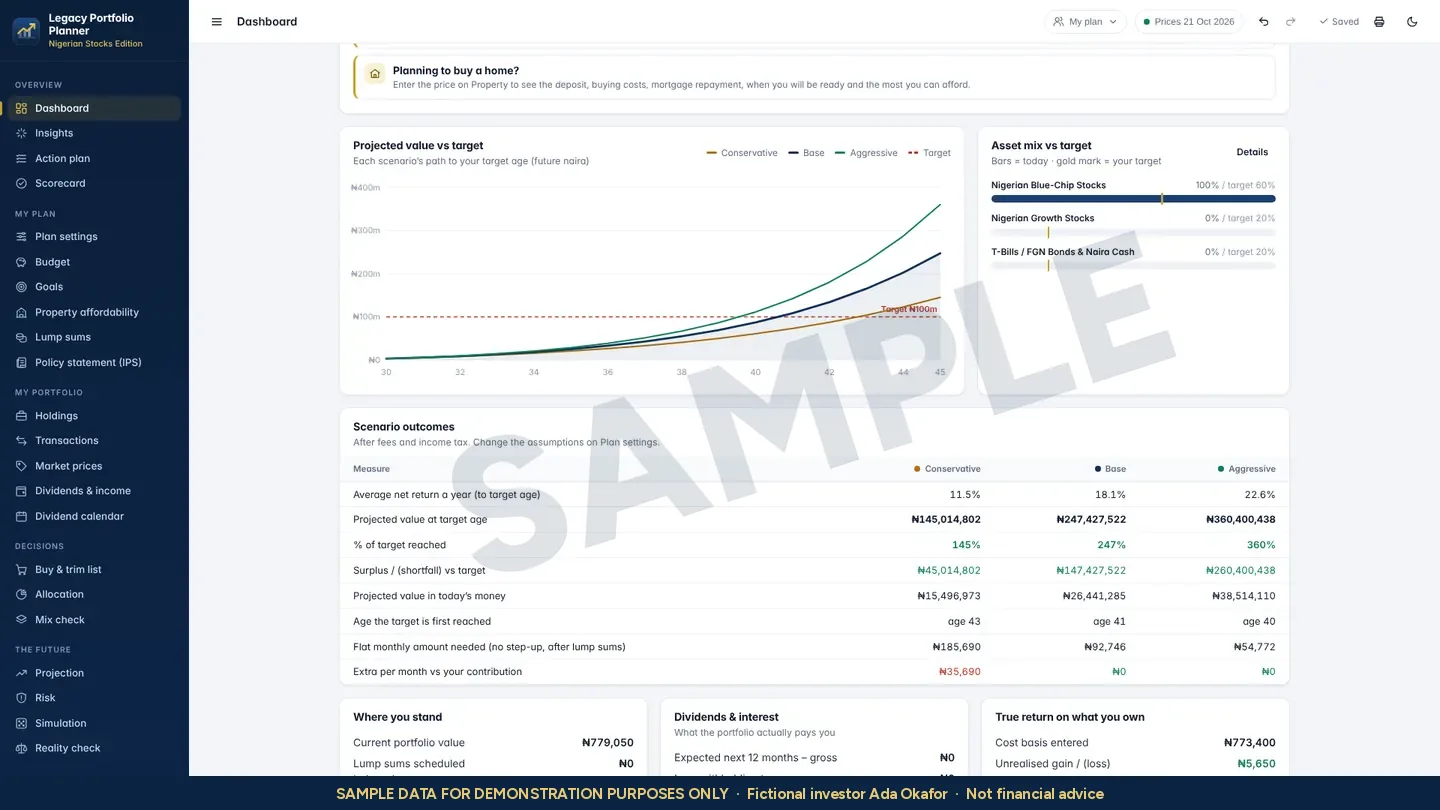
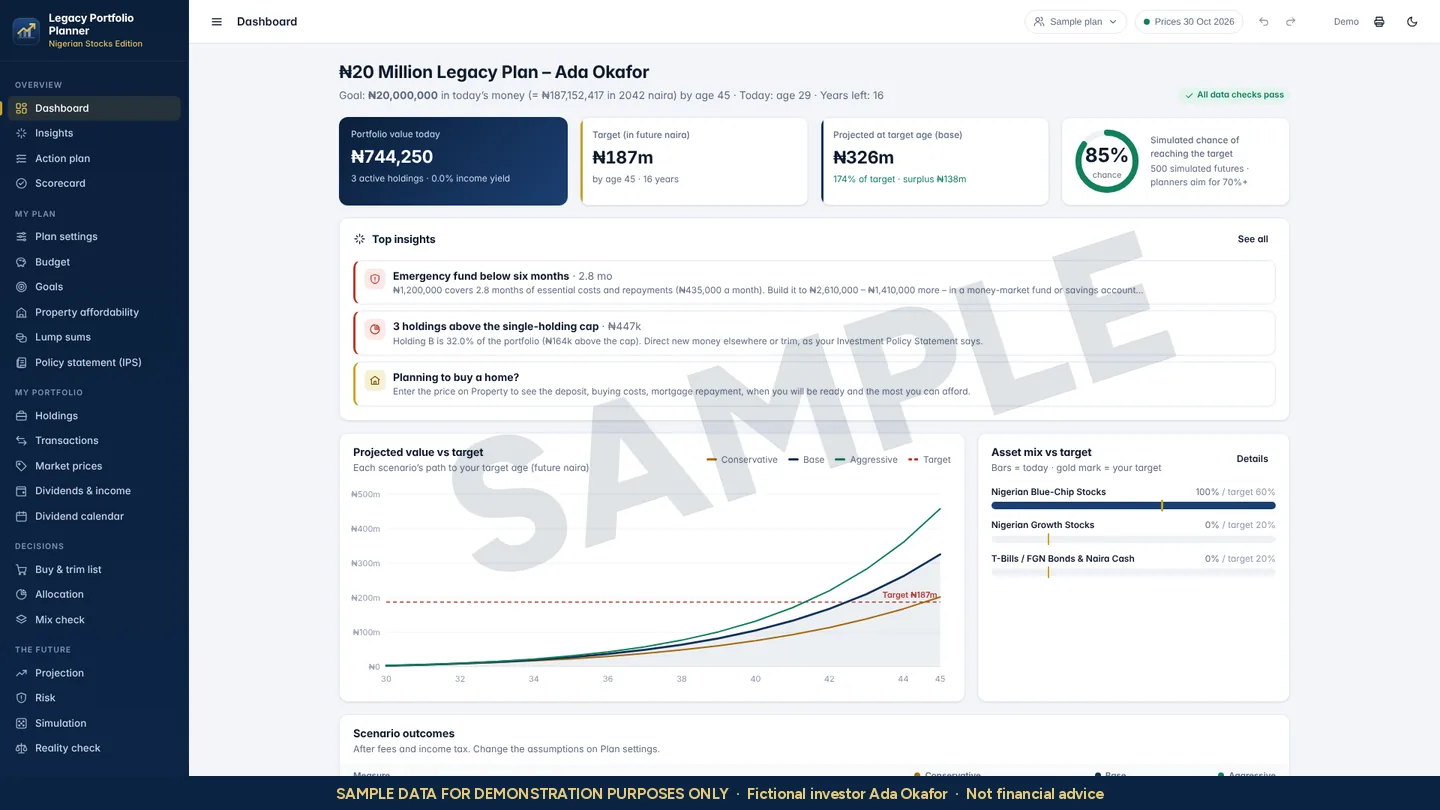
Align Ada with the Academy: retake all sample screenshots from her Academy plan
Claude-Session: https://claude.ai/code/session_017xo4nke39eoU6adX3svnwj

diff --git a/features.html b/features.html
@@ -155,9 +155,9 @@
     <h2 id="h-dashboard" style="font-size:clamp(26px,2.8vw,36px);color:var(--navy)">Planning Dashboard</h2>
     <div class="k"><h4>What it does</h4><p>Brings your current position, the three scenarios you defined, your asset mix against target, dividend income and true return together on one screen.</p></div>
     <div class="k"><h4>Why it matters</h4><p>A plan you cannot see at a glance is a plan you stop checking. One screen makes a monthly check-in quick.</p></div>
-    <div class="ada-note"><span class="avatar" aria-hidden="true">AO</span><p><b>Example with Ada.</b> Ada opens the Dashboard on the first Saturday of each month. In under five minutes she sees whether her contributions are on schedule and which part of her mix has moved away from her targets.</p></div>
+    <div class="ada-note"><span class="avatar" aria-hidden="true">AO</span><p><b>Example with Ada.</b> Once a month Ada does a five-minute check on the Dashboard. She sees her ₦20 million goal, where her portfolio stands, and that her top insight is an emergency fund below six months.</p></div>
   </div>
-  <div class="fd-media"><figure class="frame" style="margin:0"><div class="bar"><i></i><i></i><i></i><span>Legacy Portfolio Planner · Planning Dashboard</span></div><img src="assets/img/dashboard.webp" width="1440" height="810" alt="Planner dashboard with sample data: projected value against target for three assumption-based scenarios, asset mix against target, and a scenario table. Watermarked SAMPLE." loading="lazy" decoding="async"></figure><p class="caption mt-s">SAMPLE DATA FOR DEMONSTRATION PURPOSES ONLY. Fictional investor; anonymised holdings.</p></div>
+  <div class="fd-media"><figure class="frame" style="margin:0"><div class="bar"><i></i><i></i><i></i><span>Legacy Portfolio Planner · Planning Dashboard</span></div><img src="assets/img/dashboard.webp" width="1440" height="810" alt="Planner dashboard with sample data: the goal, portfolio value, projected value and simulated chance, top insights, projected value against target for three assumption-based scenarios, and asset mix against target. Watermarked SAMPLE." loading="lazy" decoding="async"></figure><p class="caption mt-s">SAMPLE DATA FOR DEMONSTRATION PURPOSES ONLY. Fictional investor; anonymised holdings.</p></div>
 </article>
 <article class="fd" id="goals" aria-labelledby="h-goals">
   <div class="fd-copy">
@@ -165,9 +165,9 @@
     <h2 id="h-goals" style="font-size:clamp(26px,2.8vw,36px);color:var(--navy)">Goal Tracking</h2>
     <div class="k"><h4>What it does</h4><p>Sets your legacy target in today's money or future naira, tests it against your budget, and adds other goals such as a home, a car or school fees. A property affordability tool and a lump-sum schedule sit alongside.</p></div>
     <div class="k"><h4>Why it matters</h4><p>Inflation changes what a naira target means over decades. Seeing both values keeps the goal honest.</p></div>
-    <div class="ada-note"><span class="avatar" aria-hidden="true">AO</span><p><b>Example with Ada.</b> Ada, 30, sets a ₦100 million family legacy target for age 45 and sees what that sum is worth in today's money. She adds a home deposit at 40 as a separate goal so it does not quietly eat into the long-term plan.</p></div>
+    <div class="ada-note"><span class="avatar" aria-hidden="true">AO</span><p><b>Example with Ada.</b> Ada, 29, first typed ₦100 million by 45, then saw it would buy only about what ₦10.7 million buys today. She sets ₦20 million in today's money instead, and adds a six-month emergency fund and a laptop for 2028 as goals paid from separate savings, so they do not touch the long-term plan.</p></div>
   </div>
-  <div class="fd-media"><figure class="frame" style="margin:0"><div class="bar"><i></i><i></i><i></i><span>Legacy Portfolio Planner · Goal Tracking</span></div><img src="assets/img/goals.webp" width="1440" height="810" alt="Goals screen with two sample goals, a home deposit and a master's degree, each inflated to its year with the monthly amount to set aside. Watermarked SAMPLE." loading="lazy" decoding="async"></figure><p class="caption mt-s">SAMPLE DATA FOR DEMONSTRATION PURPOSES ONLY. Fictional investor; anonymised holdings.</p></div>
+  <div class="fd-media"><figure class="frame" style="margin:0"><div class="bar"><i></i><i></i><i></i><span>Legacy Portfolio Planner · Goal Tracking</span></div><img src="assets/img/goals.webp" width="1440" height="810" alt="Goals screen with two sample goals, an emergency fund and a laptop, each inflated to its year with the monthly amount to set aside. Watermarked SAMPLE." loading="lazy" decoding="async"></figure><p class="caption mt-s">SAMPLE DATA FOR DEMONSTRATION PURPOSES ONLY. Fictional investor; anonymised holdings.</p></div>
 </article>
 <article class="fd" id="portfolio-tracking" aria-labelledby="h-portfolio-tracking">
   <div class="fd-copy">
@@ -175,7 +175,7 @@
     <h2 id="h-portfolio-tracking" style="font-size:clamp(26px,2.8vw,36px);color:var(--navy)">Portfolio Tracking</h2>
     <div class="k"><h4>What it does</h4><p>Records every holding, buy and sale. NGX share and ETF prices refresh in the app; other assets such as mutual funds, bonds or property are priced by you. Return is shown as a true money-weighted figure (XIRR), and broker statements can be imported.</p></div>
     <div class="k"><h4>Why it matters</h4><p>Accurate records are the base of every review and of any handover. A true return figure stops large deposits from flattering the result.</p></div>
-    <div class="ada-note"><span class="avatar" aria-hidden="true">AO</span><p><b>Example with Ada.</b> Ada switches on the three holdings she owns from the alphabetical NGX list and imports last year's broker statement. The list is for finding her own holdings, never a set of suggestions.</p></div>
+    <div class="ada-note"><span class="avatar" aria-hidden="true">AO</span><p><b>Example with Ada.</b> Ada switches on her three holdings from the alphabetical NGX list, types one contract note and imports her other two buys from her broker statement. The list is for finding her own holdings, never a set of suggestions.</p></div>
   </div>
   <div class="fd-media"><figure class="frame" style="margin:0"><div class="bar"><i></i><i></i><i></i><span>Legacy Portfolio Planner · Portfolio Tracking</span></div><img src="assets/img/holdings.webp" width="1440" height="810" alt="Holdings screen with three anonymised sample holdings, their value, weight and return. Watermarked SAMPLE." loading="lazy" decoding="async"></figure><p class="caption mt-s">SAMPLE DATA FOR DEMONSTRATION PURPOSES ONLY. Fictional investor; anonymised holdings.</p></div>
 </article>
@@ -185,9 +185,9 @@
     <h2 id="h-dividends" style="font-size:clamp(26px,2.8vw,36px);color:var(--navy)">Dividend Monitoring</h2>
     <div class="k"><h4>What it does</h4><p>Logs dividends received, gross and net of withholding tax, and shows expected payments on a dividend calendar based on the records you keep.</p></div>
     <div class="k"><h4>Why it matters</h4><p>Dividends are easy to miss when they arrive in different accounts. A complete log also helps a family trace payments later.</p></div>
-    <div class="ada-note"><span class="avatar" aria-hidden="true">AO</span><p><b>Example with Ada.</b> When a dividend alert arrives, Ada records the net amount in the Dividends log. At year end she can see what her holdings paid her in total.</p></div>
+    <div class="ada-note"><span class="avatar" aria-hidden="true">AO</span><p><b>Example with Ada.</b> Ada started investing in October, so her income log is still empty. When her first dividend arrives she will record the net amount after withholding tax, and at year end see what her holdings paid her in total.</p></div>
   </div>
-  <div class="fd-media"><figure class="frame" style="margin:0"><div class="bar"><i></i><i></i><i></i><span>Legacy Portfolio Planner · Dividend Monitoring</span></div><img src="assets/img/dividends.webp" width="1440" height="810" alt="Dividends and income screen with a declared dividend, an income log of three sample payments net of withholding tax and a yearly total chart. Anonymised holdings. Watermarked SAMPLE." loading="lazy" decoding="async"></figure><p class="caption mt-s">SAMPLE DATA FOR DEMONSTRATION PURPOSES ONLY. Fictional investor; anonymised holdings.</p></div>
+  <div class="fd-media"><figure class="frame" style="margin:0"><div class="bar"><i></i><i></i><i></i><span>Legacy Portfolio Planner · Dividend Monitoring</span></div><img src="assets/img/dividends.webp" width="1440" height="810" alt="Dividends and income screen with totals received and expected, a declared-dividend tracker and an income log, before the first payment is recorded. Watermarked SAMPLE." loading="lazy" decoding="async"></figure><p class="caption mt-s">SAMPLE DATA FOR DEMONSTRATION PURPOSES ONLY. Fictional investor; anonymised holdings.</p></div>
 </article>
 <article class="fd" id="allocation" aria-labelledby="h-allocation">
   <div class="fd-copy">
@@ -195,7 +195,7 @@
     <h2 id="h-allocation" style="font-size:clamp(26px,2.8vw,36px);color:var(--navy)">Asset Allocation Monitoring</h2>
     <div class="k"><h4>What it does</h4><p>Compares today's mix with the target weights you set, flags any holding, sector or asset class above the limit you chose, and lists the gaps in a Buy & trim worksheet. The worksheet never names a security to buy.</p></div>
     <div class="k"><h4>Why it matters</h4><p>Portfolios drift as prices move. Checking the mix against your own written limits keeps risk where you intended it.</p></div>
-    <div class="ada-note"><span class="avatar" aria-hidden="true">AO</span><p><b>Example with Ada.</b> Ada's target mix is 60% blue-chip shares, 20% growth shares and 20% T-bills and bonds, with no single holding above 20%. Her three holdings are all blue-chip, so each one is flagged above her cap and the screen shows which classes are below target. She decides at her review what, if anything, to do.</p></div>
+    <div class="ada-note"><span class="avatar" aria-hidden="true">AO</span><p><b>Example with Ada.</b> Ada's target mix is 60% blue-chip shares, 20% growth shares and 20% T-bills and bonds. All her money is in blue-chip shares today, so the screen shows her two under-weight classes. Her policy statement says to direct new money there first rather than sell; placing any trade is her own decision.</p></div>
   </div>
   <div class="fd-media"><figure class="frame" style="margin:0"><div class="bar"><i></i><i></i><i></i><span>Legacy Portfolio Planner · Asset Allocation Monitoring</span></div><img src="assets/img/allocation.webp" width="1440" height="810" alt="Allocation screen comparing the sample portfolio's mix with its 60/20/20 target and showing how a monthly contribution is split toward under-weight asset classes. Watermarked SAMPLE." loading="lazy" decoding="async"></figure><p class="caption mt-s">SAMPLE DATA FOR DEMONSTRATION PURPOSES ONLY. Fictional investor; anonymised holdings.</p></div>
 </article>
@@ -205,7 +205,7 @@
     <h2 id="h-scenarios" style="font-size:clamp(26px,2.8vw,36px);color:var(--navy)">Scenario, Simulation and Stress Testing</h2>
     <div class="k"><h4>What it does</h4><p>Projects three scenarios from your own return and inflation assumptions, runs 500 simulated paths to show a range of outcomes, replays historical NGX All-Share years, applies four editable shocks, and compares different monthly amounts in a reality check.</p></div>
     <div class="k"><h4>Why it matters</h4><p>A single straight line hides uncertainty. Ranges and shocks show how sensitive a plan is to the assumptions behind it. They are illustrations, not forecasts.</p></div>
-    <div class="ada-note"><span class="avatar" aria-hidden="true">AO</span><p><b>Example with Ada.</b> Ada tests what a naira devaluation shock would do to her current mix, then uses the reality check to see how raising her monthly amount by ₦25,000 changes the picture under the same assumptions.</p></div>
+    <div class="ada-note"><span class="avatar" aria-hidden="true">AO</span><p><b>Example with Ada.</b> Ada runs a 2008-style crash: her all-shares portfolio falls about 35%, while her 60/20/20 target mix would fall about 30%. The reality check then shows how a 15% yearly step-up in her ₦150,000 a month changes the picture under the same assumptions.</p></div>
   </div>
   <div class="fd-media"><figure class="frame" style="margin:0"><div class="bar"><i></i><i></i><i></i><span>Legacy Portfolio Planner · Scenario, Simulation and Stress Testing</span></div><img src="assets/img/simulation.webp" width="1440" height="810" alt="Simulation screen with a shaded band of outcomes from 500 simulated paths and a history test table. Watermarked SAMPLE." loading="lazy" decoding="async"></figure><p class="caption mt-s">SAMPLE DATA FOR DEMONSTRATION PURPOSES ONLY. Fictional investor; anonymised holdings.</p></div>
 </article>
@@ -215,7 +215,7 @@
     <h2 id="h-scorecard" style="font-size:clamp(26px,2.8vw,36px);color:var(--navy)">Plan Health Scorecard</h2>
     <div class="k"><h4>What it does</h4><p>Runs 20 fixed checks across the whole plan, including emergency cover, savings rate, life cover, a written will with named beneficiaries, diversification and costs, and marks each OK, Review or Gap.</p></div>
     <div class="k"><h4>Why it matters</h4><p>A long-term plan can fail for reasons that have nothing to do with markets, such as no emergency fund or no named beneficiary.</p></div>
-    <div class="ada-note"><span class="avatar" aria-hidden="true">AO</span><p><b>Example with Ada.</b> Ada's scorecard shows a Gap on emergency cover. She sets a target of six months of costs held outside the portfolio before raising her investing amount.</p></div>
+    <div class="ada-note"><span class="avatar" aria-hidden="true">AO</span><p><b>Example with Ada.</b> Ada's scorecard passes 8 of 20 checks. The biggest gap is emergency cover: 2.8 months against six, so she saves toward six months outside the portfolio as a separate goal.</p></div>
   </div>
   <div class="fd-media"><figure class="frame" style="margin:0"><div class="bar"><i></i><i></i><i></i><span>Legacy Portfolio Planner · Plan Health Scorecard</span></div><img src="assets/img/scorecard.webp" width="1440" height="810" alt="Scorecard screen listing plan health checks with OK, Review and Gap status. Watermarked SAMPLE." loading="lazy" decoding="async"></figure><p class="caption mt-s">SAMPLE DATA FOR DEMONSTRATION PURPOSES ONLY. Fictional investor; anonymised holdings.</p></div>
 </article>
@@ -225,7 +225,7 @@
     <h2 id="h-ips" style="font-size:clamp(26px,2.8vw,36px);color:var(--navy)">Legacy Documentation (Investment Policy Statement)</h2>
     <div class="k"><h4>What it does</h4><p>Generates a written Investment Policy Statement from your plan: your goal, timeline, target mix, limits, review dates and selling rule, ready to print and sign.</p></div>
     <div class="k"><h4>Why it matters</h4><p>Written rules make decisions calmer and give the people you trust a clear explanation of how you intended the portfolio to be run.</p></div>
-    <div class="ada-note"><span class="avatar" aria-hidden="true">AO</span><p><b>Example with Ada.</b> Ada prints and signs her Investment Policy Statement and stores it with her will, so her executor can see the approach she chose.</p></div>
+    <div class="ada-note"><span class="avatar" aria-hidden="true">AO</span><p><b>Example with Ada.</b> Ada signs her Investment Policy Statement and re-reads it at her yearly review on her birthday. Writing a will is still on her action plan.</p></div>
   </div>
   <div class="fd-media"><figure class="frame" style="margin:0"><div class="bar"><i></i><i></i><i></i><span>Legacy Portfolio Planner · Legacy Documentation (Investment Policy Statement)</span></div><img src="assets/img/ips.webp" width="1440" height="810" alt="Investment Policy Statement screen listing the sample plan's objective, time horizon, risk tolerance, asset allocation, limits, rebalancing and selling rules. Watermarked SAMPLE." loading="lazy" decoding="async"></figure><p class="caption mt-s">SAMPLE DATA FOR DEMONSTRATION PURPOSES ONLY. Fictional investor; anonymised holdings.</p></div>
 </article>
@@ -235,9 +235,9 @@
     <h2 id="h-legacy-records" style="font-size:clamp(26px,2.8vw,36px);color:var(--navy)">Wealth Transfer and Estate Records</h2>
     <div class="k"><h4>What it does</h4><p>Tracks net worth and your legacy estate across assets, keeps scorecard records for your will, beneficiaries and insurance, and saves your whole plan to a backup file you can restore on another device.</p></div>
     <div class="k"><h4>Why it matters</h4><p>A plan only becomes a legacy if someone can find and understand it. Keeping records current is the practical part of wealth transfer.</p></div>
-    <div class="ada-note"><span class="avatar" aria-hidden="true">AO</span><p><b>Example with Ada.</b> Each January Ada saves a fresh backup file and notes where it is kept in the letter that sits with her will.</p></div>
+    <div class="ada-note"><span class="avatar" aria-hidden="true">AO</span><p><b>Example with Ada.</b> Ada logs her net worth, about ₦3.5 million including her pension, and keeps a backup file of her plan. A will with named beneficiaries is the next step on her action plan.</p></div>
   </div>
-  <div class="fd-media"><figure class="frame" style="margin:0"><div class="bar"><i></i><i></i><i></i><span>Legacy Portfolio Planner · Wealth Transfer and Estate Records</span></div><img src="assets/img/networth.webp" width="1440" height="810" alt="Net worth screen with sample assets, a quarterly net worth history chart and legacy estate total. Watermarked SAMPLE." loading="lazy" decoding="async"></figure><p class="caption mt-s">SAMPLE DATA FOR DEMONSTRATION PURPOSES ONLY. Fictional investor; anonymised holdings.</p></div>
+  <div class="fd-media"><figure class="frame" style="margin:0"><div class="bar"><i></i><i></i><i></i><span>Legacy Portfolio Planner · Wealth Transfer and Estate Records</span></div><img src="assets/img/networth.webp" width="1440" height="810" alt="Net worth screen with sample assets including a pension, a logged net worth entry and the legacy estate total. Watermarked SAMPLE." loading="lazy" decoding="async"></figure><p class="caption mt-s">SAMPLE DATA FOR DEMONSTRATION PURPOSES ONLY. Fictional investor; anonymised holdings.</p></div>
 </article></div>
 </section>
 <section class="band white tight">

diff --git a/index.html b/index.html
@@ -155,20 +155,20 @@
   <span class="stamp" aria-hidden="true">SAMPLE</span>
   <div class="file-who">
     <span class="avatar" aria-hidden="true">AO</span>
-    <div><b>Ada Okafor</b><span>30 · Lagos-based professional · long-term investor</span></div>
+    <div><b>Ada Okafor</b><span>29 · Software engineer in Lagos · first-time investor</span></div>
   </div>
   <dl>
-    <dt>Goal</dt><dd>₦100 million family legacy fund</dd>
+    <dt>Goal</dt><dd>₦20 million legacy fund, in today's money</dd>
     <dt>Target age</dt><dd class="num">45</dd>
     <dt>Monthly plan</dt><dd class="num">₦150,000</dd>
-    <dt>Plan review</dt><dd>Every January</dd>
+    <dt>Plan review</dt><dd>Every birthday</dd>
   </dl>
   <ul class="file-checks">
-    <li><span class="tick"><svg viewBox="0 0 24 24" aria-hidden="true" focusable="false"><path d="M5 12.5l4.2 4.2L19 7" fill="none" stroke="currentColor" stroke-width="2.4" stroke-linecap="round" stroke-linejoin="round"/></svg></span>Goal and target age written down<span class="chip">Recorded</span></li>
+    <li><span class="tick"><svg viewBox="0 0 24 24" aria-hidden="true" focusable="false"><path d="M5 12.5l4.2 4.2L19 7" fill="none" stroke="currentColor" stroke-width="2.4" stroke-linecap="round" stroke-linejoin="round"/></svg></span>Goal written in today's money<span class="chip">Recorded</span></li>
     <li><span class="tick"><svg viewBox="0 0 24 24" aria-hidden="true" focusable="false"><path d="M5 12.5l4.2 4.2L19 7" fill="none" stroke="currentColor" stroke-width="2.4" stroke-linecap="round" stroke-linejoin="round"/></svg></span>Investment Policy Statement<span class="chip">Signed</span></li>
-    <li><span class="tick"><svg viewBox="0 0 24 24" aria-hidden="true" focusable="false"><path d="M5 12.5l4.2 4.2L19 7" fill="none" stroke="currentColor" stroke-width="2.4" stroke-linecap="round" stroke-linejoin="round"/></svg></span>Holdings and dividends<span class="chip">Up to date</span></li>
-    <li><span class="tick todo"><svg viewBox="0 0 24 24" aria-hidden="true" focusable="false"><circle cx="12" cy="12" r="9" fill="none" stroke="currentColor" stroke-width="1.8"/><path d="M12 11v5.5M12 7.6v.2" stroke="currentColor" stroke-width="2" stroke-linecap="round"/></svg></span>Beneficiaries named on every account<span class="chip todo">To do</span></li>
-    <li><span class="tick"><svg viewBox="0 0 24 24" aria-hidden="true" focusable="false"><path d="M5 12.5l4.2 4.2L19 7" fill="none" stroke="currentColor" stroke-width="2.4" stroke-linecap="round" stroke-linejoin="round"/></svg></span>Plan file backed up for family<span class="chip">Saved</span></li>
+    <li><span class="tick"><svg viewBox="0 0 24 24" aria-hidden="true" focusable="false"><path d="M5 12.5l4.2 4.2L19 7" fill="none" stroke="currentColor" stroke-width="2.4" stroke-linecap="round" stroke-linejoin="round"/></svg></span>Every trade on record<span class="chip">Up to date</span></li>
+    <li><span class="tick todo"><svg viewBox="0 0 24 24" aria-hidden="true" focusable="false"><circle cx="12" cy="12" r="9" fill="none" stroke="currentColor" stroke-width="1.8"/><path d="M12 11v5.5M12 7.6v.2" stroke="currentColor" stroke-width="2" stroke-linecap="round"/></svg></span>Will with named beneficiaries<span class="chip todo">To do</span></li>
+    <li><span class="tick todo"><svg viewBox="0 0 24 24" aria-hidden="true" focusable="false"><circle cx="12" cy="12" r="9" fill="none" stroke="currentColor" stroke-width="1.8"/><path d="M12 11v5.5M12 7.6v.2" stroke="currentColor" stroke-width="2" stroke-linecap="round"/></svg></span>Emergency fund: 2.8 of 6 months<span class="chip todo">Building</span></li>
   </ul>
   <p class="file-foot">Fictional example for demonstration. Ada is not a real person and this is not a real portfolio.</p>
 </article>
@@ -237,11 +237,11 @@
     </div>
     
 <div data-tabs>
-  <div class="tabs" role="tablist" aria-label="Planner screens"><button type="button" role="tab" id="tab-dashboard" aria-selected="true" tabindex="0" aria-controls="shot-panel" data-src="assets/img/dashboard.webp" data-alt="Planner dashboard with sample data: projected value against target for three assumption-based scenarios, asset mix against target, and a scenario table. Watermarked SAMPLE." data-title="Your whole plan on one screen" data-text="Where the plan stands today, what each scenario implies by the target age under your assumptions, and what would close any gap." data-url="Legacy Portfolio Planner · Dashboard">Dashboard</button><button type="button" role="tab" id="tab-holdings" aria-selected="false" tabindex="-1" aria-controls="shot-panel" data-src="assets/img/holdings.webp" data-alt="Holdings screen with three anonymised sample holdings, their value, weight and return. Watermarked SAMPLE." data-title="Every holding on record" data-text="Units, cost, latest NGX price, weight and true return for each holding, with flags when a holding grows past the limit you set." data-url="Legacy Portfolio Planner · Holdings">Holdings</button><button type="button" role="tab" id="tab-simulation" aria-selected="false" tabindex="-1" aria-controls="shot-panel" data-src="assets/img/simulation.webp" data-alt="Simulation screen with a shaded band of outcomes from 500 simulated paths and a history test table. Watermarked SAMPLE." data-title="A range, not a single line" data-text="500 simulated paths built from your own assumptions show a spread of possible outcomes and how often the plan reaches its target in that model." data-url="Legacy Portfolio Planner · Simulation">Simulation</button><button type="button" role="tab" id="tab-stress" aria-selected="false" tabindex="-1" aria-controls="shot-panel" data-src="assets/img/stress.webp" data-alt="Stress test screen showing four editable shock scenarios applied to a sample portfolio. Watermarked SAMPLE." data-title="See the effect of a shock" data-text="Apply editable shocks such as a global crash or a naira devaluation to today's mix and see the change in value." data-url="Legacy Portfolio Planner · Stress test">Stress test</button><button type="button" role="tab" id="tab-scorecard" aria-selected="false" tabindex="-1" aria-controls="shot-panel" data-src="assets/img/scorecard.webp" data-alt="Scorecard screen listing plan health checks with OK, Review and Gap status. Watermarked SAMPLE." data-title="20 plan health checks" data-text="Emergency cover, savings rate, insurance, a written will with named beneficiaries, diversification and costs, each marked OK, Review or Gap." data-url="Legacy Portfolio Planner · Scorecard">Scorecard</button><button type="button" role="tab" id="tab-reality" aria-selected="false" tabindex="-1" aria-controls="shot-panel" data-src="assets/img/reality.webp" data-alt="Reality check table comparing monthly contribution amounts and yearly step-ups under sample assumptions. Watermarked SAMPLE." data-title="Test different saving amounts" data-text="Compare what different monthly amounts and yearly step-ups would deliver under the same assumptions." data-url="Legacy Portfolio Planner · Reality check">Reality check</button></div>
+  <div class="tabs" role="tablist" aria-label="Planner screens"><button type="button" role="tab" id="tab-dashboard" aria-selected="true" tabindex="0" aria-controls="shot-panel" data-src="assets/img/dashboard.webp" data-alt="Planner dashboard with sample data: the goal, portfolio value, projected value and simulated chance, top insights, projected value against target for three assumption-based scenarios, and asset mix against target. Watermarked SAMPLE." data-title="Your whole plan on one screen" data-text="Where the plan stands today, what each scenario implies by the target age under your assumptions, and what would close any gap." data-url="Legacy Portfolio Planner · Dashboard">Dashboard</button><button type="button" role="tab" id="tab-holdings" aria-selected="false" tabindex="-1" aria-controls="shot-panel" data-src="assets/img/holdings.webp" data-alt="Holdings screen with three anonymised sample holdings, their value, weight and return. Watermarked SAMPLE." data-title="Every holding on record" data-text="Units, cost, latest NGX price, weight and true return for each holding, with flags when a holding grows past the limit you set." data-url="Legacy Portfolio Planner · Holdings">Holdings</button><button type="button" role="tab" id="tab-simulation" aria-selected="false" tabindex="-1" aria-controls="shot-panel" data-src="assets/img/simulation.webp" data-alt="Simulation screen with a shaded band of outcomes from 500 simulated paths and a history test table. Watermarked SAMPLE." data-title="A range, not a single line" data-text="500 simulated paths built from your own assumptions show a spread of possible outcomes and how often the plan reaches its target in that model." data-url="Legacy Portfolio Planner · Simulation">Simulation</button><button type="button" role="tab" id="tab-stress" aria-selected="false" tabindex="-1" aria-controls="shot-panel" data-src="assets/img/stress.webp" data-alt="Risk screen with chance of reaching the target by scenario and four editable stress tests applied to a sample portfolio. Watermarked SAMPLE." data-title="See the effect of a shock" data-text="Apply editable shocks such as a global crash or a naira devaluation to today's mix and see the change in value." data-url="Legacy Portfolio Planner · Stress test">Stress test</button><button type="button" role="tab" id="tab-scorecard" aria-selected="false" tabindex="-1" aria-controls="shot-panel" data-src="assets/img/scorecard.webp" data-alt="Scorecard screen listing plan health checks with OK, Review and Gap status. Watermarked SAMPLE." data-title="20 plan health checks" data-text="Emergency cover, savings rate, insurance, a written will with named beneficiaries, diversification and costs, each marked OK, Review or Gap." data-url="Legacy Portfolio Planner · Scorecard">Scorecard</button><button type="button" role="tab" id="tab-reality" aria-selected="false" tabindex="-1" aria-controls="shot-panel" data-src="assets/img/reality.webp" data-alt="Reality check table comparing monthly contribution amounts and yearly step-ups under sample assumptions. Watermarked SAMPLE." data-title="Test different saving amounts" data-text="Compare what different monthly amounts and yearly step-ups would deliver under the same assumptions." data-url="Legacy Portfolio Planner · Reality check">Reality check</button></div>
   <div class="shots" id="shot-panel" role="tabpanel" aria-live="polite">
     <figure class="frame" style="margin:0">
       <div class="bar"><i></i><i></i><i></i><span data-shot-url>Legacy Portfolio Planner · Dashboard</span></div>
-      <img data-shot-img src="assets/img/dashboard.webp" width="1440" height="810" alt="Planner dashboard with sample data: projected value against target for three assumption-based scenarios, asset mix against target, and a scenario table. Watermarked SAMPLE." loading="lazy" decoding="async">
+      <img data-shot-img src="assets/img/dashboard.webp" width="1440" height="810" alt="Planner dashboard with sample data: the goal, portfolio value, projected value and simulated chance, top insights, projected value against target for three assumption-based scenarios, and asset mix against target. Watermarked SAMPLE." loading="lazy" decoding="async">
     </figure>
     <div class="shot-copy">
       <h3 data-shot-title>Your whole plan on one screen</h3>

diff --git a/demo.html b/demo.html
@@ -132,11 +132,11 @@
     <div class="head"><p class="eyebrow">Product walkthrough</p><h2 id="walk-title" style="color:#fff">A tour of the main screens.</h2></div>
     
 <div data-tabs>
-  <div class="tabs" role="tablist" aria-label="Planner screens"><button type="button" role="tab" id="tab-dashboard" aria-selected="true" tabindex="0" aria-controls="shot-panel" data-src="assets/img/dashboard.webp" data-alt="Planner dashboard with sample data: projected value against target for three assumption-based scenarios, asset mix against target, and a scenario table. Watermarked SAMPLE." data-title="Your whole plan on one screen" data-text="Where the plan stands today, what each scenario implies by the target age under your assumptions, and what would close any gap." data-url="Legacy Portfolio Planner · Dashboard">Dashboard</button><button type="button" role="tab" id="tab-holdings" aria-selected="false" tabindex="-1" aria-controls="shot-panel" data-src="assets/img/holdings.webp" data-alt="Holdings screen with three anonymised sample holdings, their value, weight and return. Watermarked SAMPLE." data-title="Every holding on record" data-text="Units, cost, latest NGX price, weight and true return for each holding, with flags when a holding grows past the limit you set." data-url="Legacy Portfolio Planner · Holdings">Holdings</button><button type="button" role="tab" id="tab-simulation" aria-selected="false" tabindex="-1" aria-controls="shot-panel" data-src="assets/img/simulation.webp" data-alt="Simulation screen with a shaded band of outcomes from 500 simulated paths and a history test table. Watermarked SAMPLE." data-title="A range, not a single line" data-text="500 simulated paths built from your own assumptions show a spread of possible outcomes and how often the plan reaches its target in that model." data-url="Legacy Portfolio Planner · Simulation">Simulation</button><button type="button" role="tab" id="tab-stress" aria-selected="false" tabindex="-1" aria-controls="shot-panel" data-src="assets/img/stress.webp" data-alt="Stress test screen showing four editable shock scenarios applied to a sample portfolio. Watermarked SAMPLE." data-title="See the effect of a shock" data-text="Apply editable shocks such as a global crash or a naira devaluation to today's mix and see the change in value." data-url="Legacy Portfolio Planner · Stress test">Stress test</button><button type="button" role="tab" id="tab-scorecard" aria-selected="false" tabindex="-1" aria-controls="shot-panel" data-src="assets/img/scorecard.webp" data-alt="Scorecard screen listing plan health checks with OK, Review and Gap status. Watermarked SAMPLE." data-title="20 plan health checks" data-text="Emergency cover, savings rate, insurance, a written will with named beneficiaries, diversification and costs, each marked OK, Review or Gap." data-url="Legacy Portfolio Planner · Scorecard">Scorecard</button><button type="button" role="tab" id="tab-reality" aria-selected="false" tabindex="-1" aria-controls="shot-panel" data-src="assets/img/reality.webp" data-alt="Reality check table comparing monthly contribution amounts and yearly step-ups under sample assumptions. Watermarked SAMPLE." data-title="Test different saving amounts" data-text="Compare what different monthly amounts and yearly step-ups would deliver under the same assumptions." data-url="Legacy Portfolio Planner · Reality check">Reality check</button></div>
+  <div class="tabs" role="tablist" aria-label="Planner screens"><button type="button" role="tab" id="tab-dashboard" aria-selected="true" tabindex="0" aria-controls="shot-panel" data-src="assets/img/dashboard.webp" data-alt="Planner dashboard with sample data: the goal, portfolio value, projected value and simulated chance, top insights, projected value against target for three assumption-based scenarios, and asset mix against target. Watermarked SAMPLE." data-title="Your whole plan on one screen" data-text="Where the plan stands today, what each scenario implies by the target age under your assumptions, and what would close any gap." data-url="Legacy Portfolio Planner · Dashboard">Dashboard</button><button type="button" role="tab" id="tab-holdings" aria-selected="false" tabindex="-1" aria-controls="shot-panel" data-src="assets/img/holdings.webp" data-alt="Holdings screen with three anonymised sample holdings, their value, weight and return. Watermarked SAMPLE." data-title="Every holding on record" data-text="Units, cost, latest NGX price, weight and true return for each holding, with flags when a holding grows past the limit you set." data-url="Legacy Portfolio Planner · Holdings">Holdings</button><button type="button" role="tab" id="tab-simulation" aria-selected="false" tabindex="-1" aria-controls="shot-panel" data-src="assets/img/simulation.webp" data-alt="Simulation screen with a shaded band of outcomes from 500 simulated paths and a history test table. Watermarked SAMPLE." data-title="A range, not a single line" data-text="500 simulated paths built from your own assumptions show a spread of possible outcomes and how often the plan reaches its target in that model." data-url="Legacy Portfolio Planner · Simulation">Simulation</button><button type="button" role="tab" id="tab-stress" aria-selected="false" tabindex="-1" aria-controls="shot-panel" data-src="assets/img/stress.webp" data-alt="Risk screen with chance of reaching the target by scenario and four editable stress tests applied to a sample portfolio. Watermarked SAMPLE." data-title="See the effect of a shock" data-text="Apply editable shocks such as a global crash or a naira devaluation to today's mix and see the change in value." data-url="Legacy Portfolio Planner · Stress test">Stress test</button><button type="button" role="tab" id="tab-scorecard" aria-selected="false" tabindex="-1" aria-controls="shot-panel" data-src="assets/img/scorecard.webp" data-alt="Scorecard screen listing plan health checks with OK, Review and Gap status. Watermarked SAMPLE." data-title="20 plan health checks" data-text="Emergency cover, savings rate, insurance, a written will with named beneficiaries, diversification and costs, each marked OK, Review or Gap." data-url="Legacy Portfolio Planner · Scorecard">Scorecard</button><button type="button" role="tab" id="tab-reality" aria-selected="false" tabindex="-1" aria-controls="shot-panel" data-src="assets/img/reality.webp" data-alt="Reality check table comparing monthly contribution amounts and yearly step-ups under sample assumptions. Watermarked SAMPLE." data-title="Test different saving amounts" data-text="Compare what different monthly amounts and yearly step-ups would deliver under the same assumptions." data-url="Legacy Portfolio Planner · Reality check">Reality check</button></div>
   <div class="shots" id="shot-panel" role="tabpanel" aria-live="polite">
     <figure class="frame" style="margin:0">
       <div class="bar"><i></i><i></i><i></i><span data-shot-url>Legacy Portfolio Planner · Dashboard</span></div>
-      <img data-shot-img src="assets/img/dashboard.webp" width="1440" height="810" alt="Planner dashboard with sample data: projected value against target for three assumption-based scenarios, asset mix against target, and a scenario table. Watermarked SAMPLE." loading="lazy" decoding="async">
+      <img data-shot-img src="assets/img/dashboard.webp" width="1440" height="810" alt="Planner dashboard with sample data: the goal, portfolio value, projected value and simulated chance, top insights, projected value against target for three assumption-based scenarios, and asset mix against target. Watermarked SAMPLE." loading="lazy" decoding="async">
     </figure>
     <div class="shot-copy">
       <h3 data-shot-title>Your whole plan on one screen</h3>
